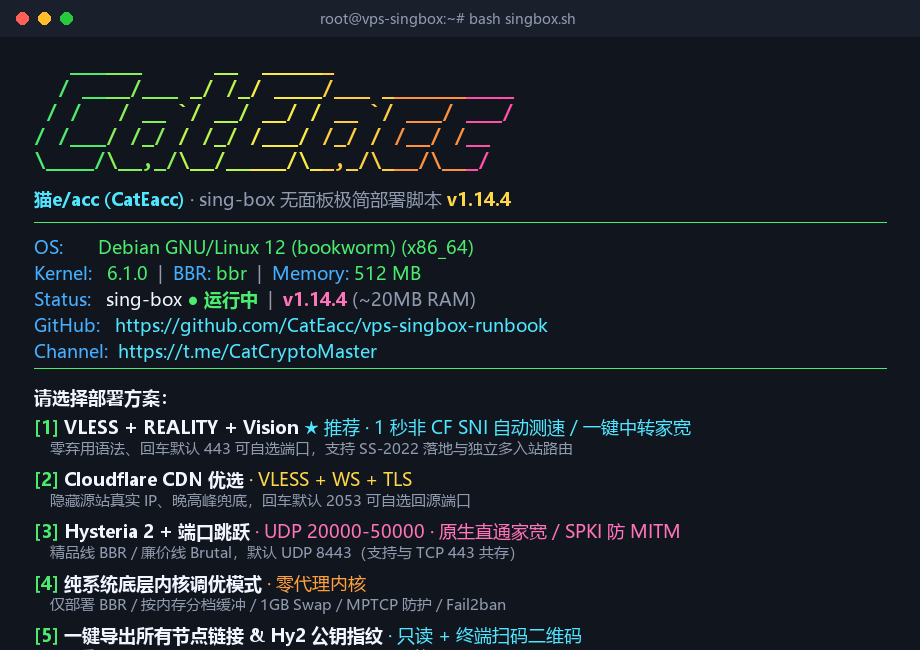
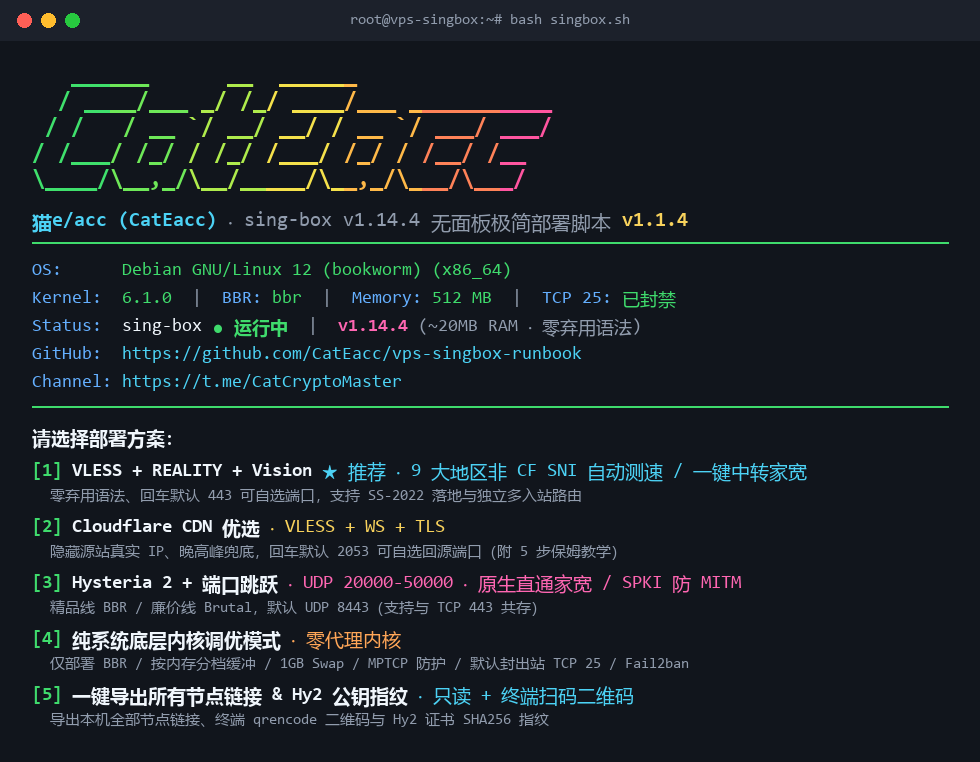
docs & release: v1.1.4 add 8-item pitfall table, update menu PNG and default TCP 25 block

Changed region(s): [[0.0304, 0.0923, 0.9739, 1.0], [0.3652, 0.0, 0.6391, 0.0615]]

diff --git a/README.md b/README.md
@@ -27,6 +27,23 @@ bash <(curl -fsSL https://raw.githubusercontent.com/CatEacc/vps-singbox-runbook/
 
 ---
 
+## 避坑对照：为什么不建议照搬网上「野生教程 / 模板」？
+
+网上不少拼凑教程把示例配置套壳就当“极简生产方案”，新手照抄往往当天就被蹭流量、爆内存甚至封机。以下是 8 个最常见的致命硬伤与本仓库的生产级做法对照：
+
+| 常见野生教程踩坑点 | 实际后果 | 本仓库生产级做法 |
+| :--- | :--- | :--- |
+| **1. 公开配置写死 UUID 与 REALITY 私钥** | 照抄启动即成全网开放代理，持私钥者可伪造服务端中间人攻击，蹭流量/滥用直接封机 | 每次部署现场随机生成独立 UUID、shortId 与 X25519 密钥对，绝不复用固定凭证 |
+| **2. 512M/1G 小内存硬塞 Docker 跑单进程代理** | Docker 引擎本身仍靠 `systemd` 守护，白吃上百 MB 内存，小鸡高并发极易 OOM 强杀 | 原生单二进制 `systemd` 直跑，常驻仅 **~20MB 内存**，附带崩溃无限自愈与防 OOM 保护 |
+| **3. 镜像或脚本写死 `x86_64` 架构** | 在甲骨文（Oracle Cloud）等 ARM64 机器上直接报 `exec format error` 崩溃 | 自动探测 `uname -m`，原生兼容 `amd64` 与 `arm64` 双架构 |
+| **4. REALITY SNI 乱偷 `www.icloud.com` 等大厂站** | 国内存在云上贵州/境内 CDN 或路由异常，或误偷 Cloudflare 站点沦为免费反代肉鸡 | 内置 **9 大地区纯本土 X25519 SNI 自动测速 + 选中后四重复检**（`TLS 1.3 + H2` / 非 CF / 无国内 CDN / 大陆可达） |
+| **5. 声称「CN2 GIA 等好线路不用开 BBR」** | 跨洋高 BDP 链路上默认 Cubic 遇轻微抖动即腰斩窗口，单流速度远跑不满 | 强制 `fq + bbr` + 关闭空闲慢启动 + 按物理内存三档自适应读写缓冲区 |
+| **6. 出站裸奔无路由与 SMTP 防护** | 可被探测内网 `169.254.169.254` 元数据、挂 BT 吃 DMCA 封号、发垃圾邮件拖黑 IP | 路由层默认 `reject` 私网、BT、回国流量与 `TCP 25`，并配主机级 `nftables` 出站 `TCP 25` 封禁 |
+| **7. 生产环境常开 `debug` 日志且不轮转** | 极易写爆小硬盘，且留存明文访问记录 | 锁定精简告警日志并强制 `journald 50M` 上限收敛 |
+| **8. 客户端规则只写一条 `MATCH,PROXY`** | 国内流量全绕海外，白烧高价流量且易撞服务端防回国规则导致断网 | 附带零泄露 `Fake-IP` 国内外分流与家宽 `detour` 链式出口模板 [`client.json`](client.json) |
+
+---
+
 ## 一、为什么单独做 `sing-box v1.14.4` 零弃用版？
 
 `sing-box` 在 **`v1.11` → `v1.14`** 期间进行了大幅架构重构，网上大量旧教程在 `v1.14.4` 上会直接报错或刷屏弃用警告。本仓库所有服务端与客户端 JSON 均已通过官方 **`sing-box v1.14.4 check -c`** 零报错、零警告验收：
